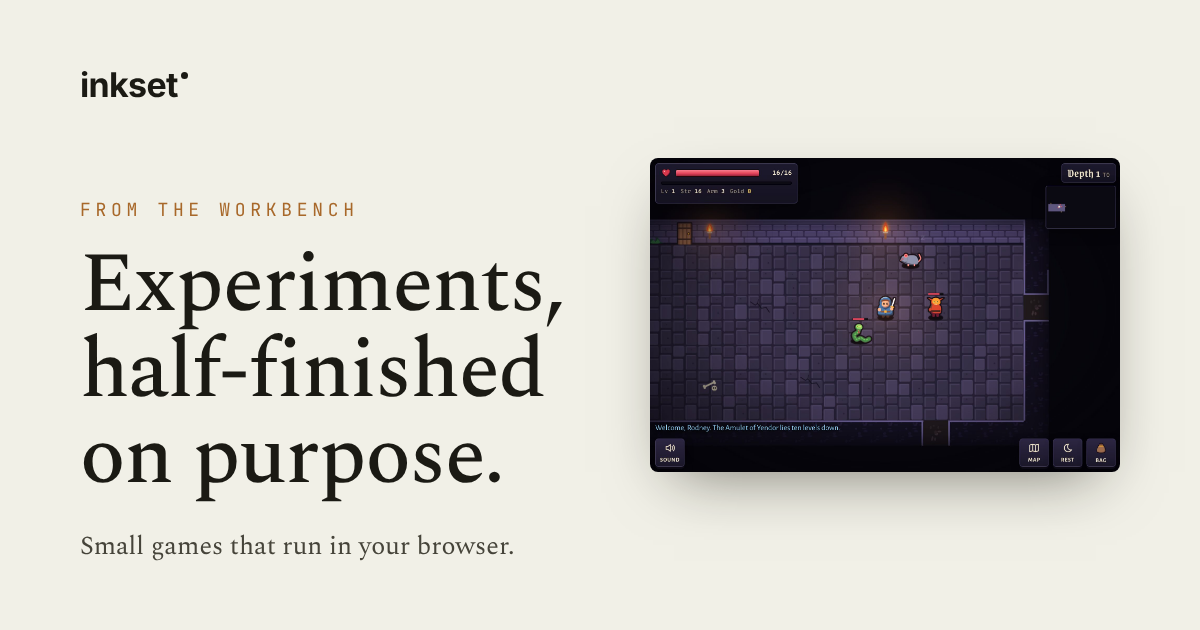
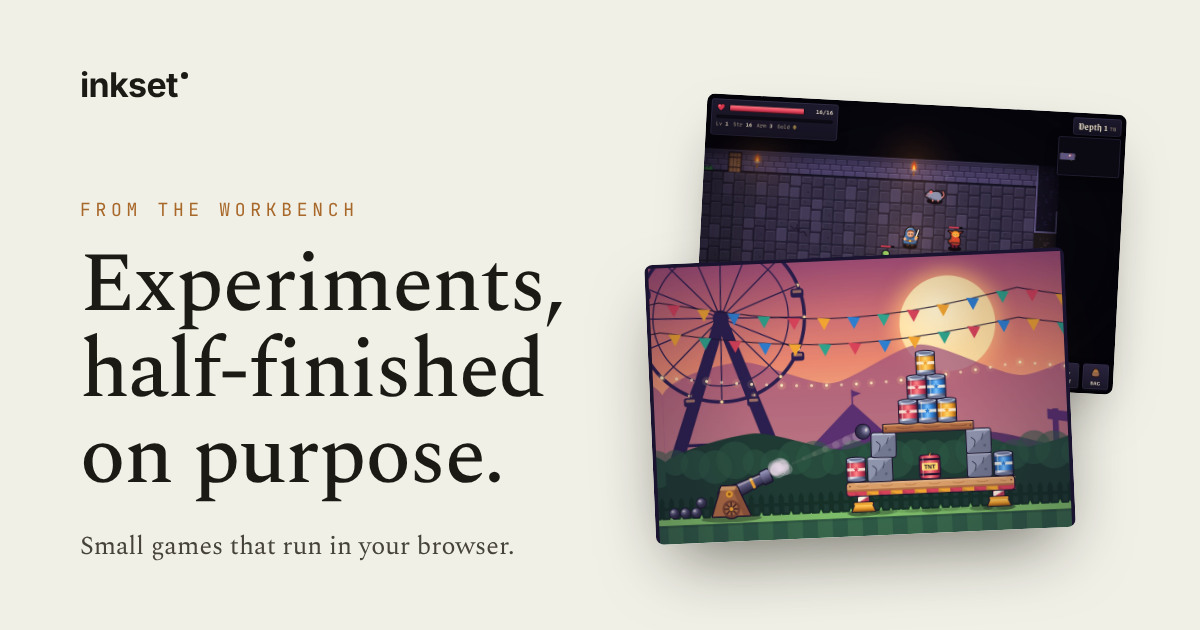
Show Topple Fair on the experiments card; complete its share tags
The experiments card now fans Topple Fair over Yendor. Topple's page gains
og:image size and alt text, og:site_name and a canonical link, matching Yendor.

Claude-Session: https://claude.ai/code/session_01FB8gbB3PvvEnjKGdpXbbYX

Changed region(s): [[0.5242, 0.1508, 0.9558, 0.9349]]

diff --git a/social/cards.html b/social/cards.html
@@ -26,7 +26,10 @@
   .night .lede { color: #cfc8b8; max-width: 34ch; }
   .hl { background: var(--ink); color: var(--ink); border-radius: 3px; padding: 0 .1em; }
   .split { display: grid; grid-template-columns: 1fr 470px; gap: 56px; height: 100%; }
-  .thumb { align-self: center; width: 470px; height: 314px; object-fit: cover; border-radius: 8px; box-shadow: 0 24px 60px -24px rgba(20,18,10,.55); }
+  .thumb { width: 420px; height: 280px; object-fit: cover; border-radius: 8px; box-shadow: 0 24px 60px -24px rgba(20,18,10,.55); position: absolute; }
+  .stack { position: relative; height: 100%; }
+  .stack .back { top: 40px; right: 0; transform: rotate(3deg); }
+  .stack .front { bottom: 30px; left: 0; transform: rotate(-2.5deg); box-shadow: 0 30px 70px -20px rgba(20,18,10,.6); }
 </style>
 </head>
 <body>
@@ -65,7 +68,10 @@
         <p class="lede" style="font-size:26px; max-width:none">Small games that run in your browser.</p>
       </div>
     </div>
-    <img class="thumb" src="../docs/experiments/yendor/thumb.jpg" alt="">
+    <div class="stack">
+      <img class="thumb back" src="../docs/experiments/yendor/thumb.jpg" alt="">
+      <img class="thumb front" src="../docs/experiments/topple/thumb.jpg" alt="">
+    </div>
   </div>
 </div>
 

diff --git a/docs/experiments/topple/index.html b/docs/experiments/topple/index.html
@@ -8,6 +8,11 @@
 <meta property="og:title" content="Topple Fair — an Inkset experiment">
 <meta property="og:description" content="Ten fairground stalls, a cannon and a bag of balls. Point at a stack and let it fly.">
 <meta property="og:image" content="https://inkset.games/experiments/topple/og.png">
+<meta property="og:image:width" content="1200">
+<meta property="og:image:height" content="630">
+<meta property="og:image:alt" content="Topple Fair: a cannon aims at a stack of cans and crates at a dusk fairground.">
+<meta property="og:site_name" content="Inkset Games">
+<link rel="canonical" href="https://inkset.games/experiments/topple/">
 <meta property="og:url" content="https://inkset.games/experiments/topple/">
 <meta property="og:type" content="website">
 <meta name="twitter:card" content="summary_large_image">

diff --git a/docs/experiments/index.html b/docs/experiments/index.html
@@ -14,7 +14,7 @@
 <meta property="og:image" content="https://inkset.games/og/experiments.png">
 <meta property="og:image:width" content="1200">
 <meta property="og:image:height" content="630">
-<meta property="og:image:alt" content="Inkset Experiments: half-finished on purpose. Small games that run in your browser.">
+<meta property="og:image:alt" content="Inkset Experiments: half-finished on purpose. Screenshots of Topple Fair and Yendor.">
 <meta name="twitter:card" content="summary_large_image">
 <link rel="preconnect" href="https://fonts.googleapis.com">
 <link rel="preconnect" href="https://fonts.gstatic.com" crossorigin>
